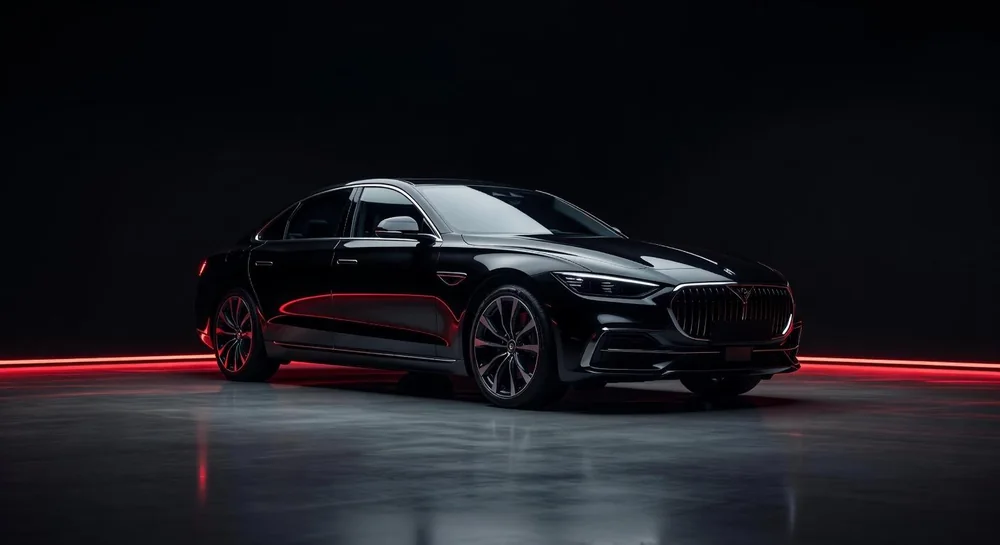
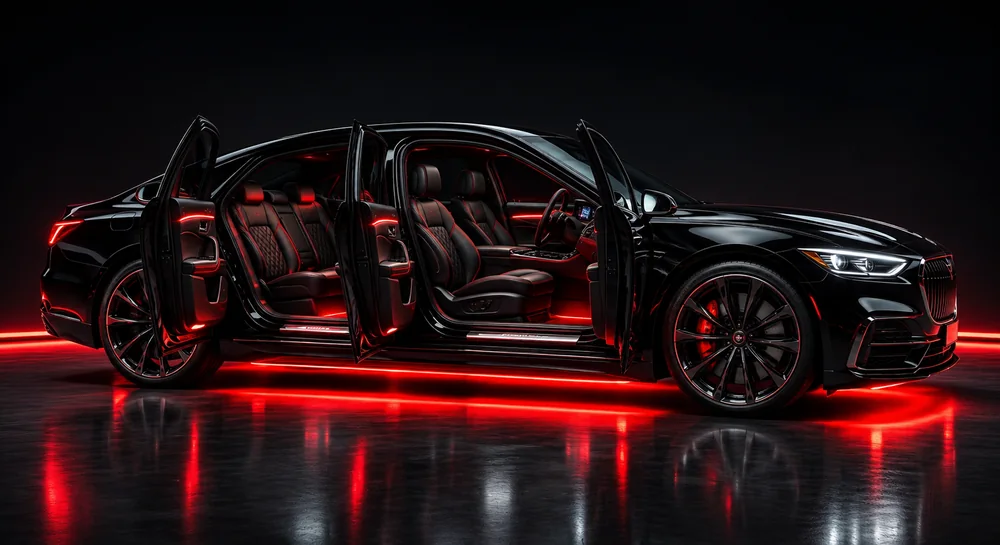
Open-door sedan hero, Google reviews section and top-bar Google button
- Hero: swap to the open-door sedan (WebP 640-1698w), four-sided edge fade so no image edges show
- Reviews: real Google testimonials as styled cards next to the award plaque; 4.8 / 71 Google reviews
  from the owner's Business Profile; links to the Google page
- Header: Google rating pill (star + 4.8) opening the Google page in a new tab
- Fix: clip the testimonials glow so it no longer widens the page on phones; tighter phone header

Claude-Session: https://claude.ai/code/session_01GMi2wfcRsANqYTVK4nMXbo

diff --git a/src/styles.css b/src/styles.css
@@ -40,6 +40,11 @@ a{color:var(--ink)}
 .nav a{text-decoration:none;color:var(--ink);opacity:.86;padding:6px 0;border-bottom:1px solid transparent}
 .nav a:hover{opacity:1;border-color:var(--red-hi)}
 .head-actions{display:flex;align-items:center;gap:10px}
+.g-pill{display:inline-flex;align-items:center;gap:7px;height:38px;padding:0 15px;border-radius:99px;background:#f4f1ea;color:#111;text-decoration:none;font:600 13px 'Inter Tight',sans-serif;letter-spacing:.02em;white-space:nowrap;transition:background .2s,transform .15s}
+.g-pill:hover{background:#fff;transform:translateY(-1px)}
+.g-pill:focus-visible{outline:2px solid #fff;outline-offset:3px;box-shadow:0 0 0 5px rgba(200,16,46,.9)}
+.g-star{color:#d99a1c;font-size:15px;line-height:1}
+.g-word{font-weight:500;color:#444}
 .menu-btn{display:none;align-items:center;gap:9px;height:38px;padding:0 14px;border:1px solid rgba(244,241,234,.5);border-radius:99px;background:none;color:var(--ink);font:500 13px 'Inter Tight',sans-serif;letter-spacing:.05em;cursor:pointer}
 .menu-btn b{display:block;width:13px;height:7px;border-top:1px solid currentColor;border-bottom:1px solid currentColor}
 .legal .head-actions{margin-left:auto}
@@ -52,7 +57,7 @@ h3{font-weight:600;letter-spacing:-.01em}
 .fine{font-size:13.5px;color:var(--mid);margin-top:10px}
 .fine a,.fine .linklike{color:var(--ink)}
 
-.section{padding:clamp(72px,10vw,130px) 0;scroll-margin-top:var(--head)}
+.section{padding:clamp(72px,10vw,130px) 0;scroll-margin-top:var(--head);overflow-x:clip}
 .section.alt{background:var(--bg2);border-top:1px solid var(--line);border-bottom:1px solid var(--line)}
 [id]{scroll-margin-top:calc(var(--head) + 8px)}
 
@@ -86,12 +91,12 @@ h3{font-weight:600;letter-spacing:-.01em}
 #name{position:absolute;z-index:5;left:0;top:0;padding:6px 11px;background:var(--ink);color:var(--bg);border-radius:99px;font-size:11.5px;font-weight:600;letter-spacing:.04em;pointer-events:none;opacity:0;transition:opacity .16s;white-space:nowrap}
 
 /* hero vehicle: decorative, blended into the page, faded by hero scroll progress (see hero.js) */
-.hero-car{position:absolute;z-index:0;left:0;right:0;margin-inline:auto;bottom:clamp(44px,7vh,90px);width:min(94vw,1360px,calc((100svh - var(--head) - 40px) * 1.8333));pointer-events:none;user-select:none;-webkit-user-select:none;mix-blend-mode:lighten;will-change:opacity,transform;contain:layout paint;
-  -webkit-mask-image:radial-gradient(ellipse 64% 64% at 50% 53%,#000 55%,transparent 100%);mask-image:radial-gradient(ellipse 64% 64% at 50% 53%,#000 55%,transparent 100%)}
-.hero-car img{display:block;width:100%;height:auto;aspect-ratio:1408/768}
+.hero-car{position:absolute;z-index:0;left:0;right:0;margin-inline:auto;bottom:clamp(44px,7vh,90px);width:min(80vw,1160px,calc((100svh - var(--head) - 40px) * 1.8333));pointer-events:none;user-select:none;-webkit-user-select:none;mix-blend-mode:lighten;will-change:opacity,transform;contain:layout paint;
+  -webkit-mask-image:linear-gradient(90deg,transparent 0,#000 8%,#000 92%,transparent 100%),linear-gradient(180deg,transparent 0,#000 14%,#000 68%,transparent 100%);-webkit-mask-composite:source-in;mask-image:linear-gradient(90deg,transparent 0,#000 8%,#000 92%,transparent 100%),linear-gradient(180deg,transparent 0,#000 14%,#000 68%,transparent 100%);mask-composite:intersect}
+.hero-car img{display:block;width:100%;height:auto;aspect-ratio:1698/926}
 .static-car{margin:34px 0 0;overflow:hidden;pointer-events:none;mix-blend-mode:lighten;
-  -webkit-mask-image:radial-gradient(ellipse 66% 66% at 50% 53%,#000 55%,transparent 100%);mask-image:radial-gradient(ellipse 66% 66% at 50% 53%,#000 55%,transparent 100%)}
-.static-car img{display:block;width:min(1180px,100%);height:auto;aspect-ratio:1408/768;margin:0 auto}
+  -webkit-mask-image:linear-gradient(90deg,transparent 0,#000 8%,#000 92%,transparent 100%),linear-gradient(180deg,transparent 0,#000 14%,#000 68%,transparent 100%);-webkit-mask-composite:source-in;mask-image:linear-gradient(90deg,transparent 0,#000 8%,#000 92%,transparent 100%),linear-gradient(180deg,transparent 0,#000 14%,#000 68%,transparent 100%);mask-composite:intersect}
+.static-car img{display:block;width:min(1000px,100%);height:auto;aspect-ratio:1698/926;margin:0 auto}
 
 /* static hero */
 .hero-static{display:none;padding:calc(var(--head) + 56px) 0 70px;border-bottom:1px solid var(--line)}
@@ -160,10 +165,30 @@ html.static-hero body.legal .hero-static{display:none}
 .facts div{border-top:1px solid var(--line);padding-top:10px}
 .facts dt{font:500 11px 'IBM Plex Mono',monospace;letter-spacing:.1em;text-transform:uppercase;color:var(--mid)}
 .facts dd{font-size:17px}
-.review-list{display:grid;grid-template-columns:repeat(auto-fit,minmax(260px,1fr));gap:16px;margin:16px 0 24px}
-.review{background:var(--card);border:1px solid var(--line);border-radius:12px;padding:20px}
-.review p{font-size:16px;margin-bottom:10px}
-.review cite{font:500 12px 'IBM Plex Mono',monospace;color:var(--mid);font-style:normal;letter-spacing:.06em}
+.rating-badge{display:flex;align-items:center;gap:16px;flex-wrap:wrap;margin-top:22px;padding:16px 20px;border:1px solid rgba(255,90,104,.4);border-radius:14px;background:linear-gradient(135deg,rgba(200,16,46,.22),rgba(200,16,46,.04))}
+.rating-num{font-size:60px;font-weight:500;letter-spacing:-.05em;line-height:1}
+.rating-body{display:grid;gap:2px;margin-right:auto}
+.stars{color:#f0b44c;letter-spacing:.14em;font-size:18px;line-height:1.2}
+.rating-meta{font-size:15px;color:#d8d5ce}
+.rating-meta strong{color:var(--ink);font-weight:600}
+.rev-stage{position:relative;margin-top:64px}
+.rev-stage:before{content:"";position:absolute;left:50%;top:-40px;width:min(1100px,130%);height:420px;transform:translateX(-50%);background:radial-gradient(ellipse 60% 55% at 50% 0%,rgba(200,16,46,.20),transparent 70%);pointer-events:none;z-index:0}
+.rev-stage>*{position:relative;z-index:1}
+.tgrid{display:grid;grid-template-columns:repeat(3,1fr);gap:16px}
+.tcard{position:relative;margin:0;padding:28px 24px 22px;display:flex;flex-direction:column;gap:18px;justify-content:space-between;background:linear-gradient(180deg,#181518,#111112);border:1px solid var(--line);border-top:2px solid var(--red);border-radius:14px;overflow:hidden;transition:transform .25s,border-color .25s,box-shadow .25s}
+.tcard:before{content:"\201C";position:absolute;right:16px;top:-6px;font:400 110px/1 Georgia,'Times New Roman',serif;color:rgba(255,90,104,.2);pointer-events:none}
+.tcard:hover{transform:translateY(-3px);border-color:rgba(255,90,104,.5);box-shadow:0 14px 40px rgba(200,16,46,.18)}
+.tcard blockquote p{font-size:17px;line-height:1.5;color:var(--ink);position:relative}
+.tcard.feature{grid-column:span 2;padding:36px 34px 28px;background:linear-gradient(135deg,rgba(200,16,46,.24),#131214 55%)}
+.tcard.feature blockquote p{font-size:clamp(20px,2.1vw,27px);line-height:1.35;letter-spacing:-.015em}
+.tcard.wide{grid-column:span 2}
+.tcard figcaption{display:flex;align-items:center;flex-wrap:wrap;gap:4px 12px;border-top:1px solid var(--line);padding-top:14px;font-size:14px}
+.tcard figcaption .stars{font-size:14px}
+.tcard .who{font-weight:600}
+.tcard .src{font:500 11px 'IBM Plex Mono',monospace;letter-spacing:.08em;text-transform:uppercase;color:var(--mid);margin-left:auto}
+.tcard.cta{align-items:flex-start;justify-content:center;gap:16px;background:linear-gradient(135deg,rgba(200,16,46,.3),rgba(200,16,46,.08));border-color:rgba(255,90,104,.45)}
+.tcard.cta:before{content:none}
+.tcard.cta p{font-size:18px;font-weight:500;letter-spacing:-.01em}
 
 /* ===== booking ===== */
 .book-grid{display:grid;grid-template-columns:1fr 1.15fr;gap:clamp(32px,6vw,80px);align-items:start}
@@ -240,6 +265,8 @@ input.chip:focus-visible+label.chip{outline:2px solid #fff;outline-offset:2px}
   .price-grid{grid-template-columns:1fr}
   .promo-grid{grid-template-columns:repeat(2,1fr)}
   .award,.book-grid{grid-template-columns:1fr}
+  .tgrid{grid-template-columns:1fr 1fr}
+  .tcard.feature,.tcard.wide{grid-column:span 2}
   .nav{display:none;position:fixed;top:var(--head);left:0;right:0;flex-direction:column;gap:0;margin:0;background:var(--bg);border-bottom:1px solid var(--line);padding:8px 20px 16px}
   .nav.open{display:flex}
   .nav a{padding:14px 0;font-size:17px;border-bottom:1px solid var(--line)}
@@ -249,8 +276,8 @@ input.chip:focus-visible+label.chip{outline:2px solid #fff;outline-offset:2px}
   .gridcta{display:none}
 }
 @media (max-width:760px){
-  .hero-car{left:50%;right:auto;margin:0 0 0 -75vw;width:150vw;bottom:62px}
-  .static-car img{width:150%;max-width:none;margin-left:-25%}
+  .hero-car{left:50%;right:auto;margin:0 0 0 -52vw;width:104vw;bottom:calc(58px + 11svh)}
+  .static-car img{width:104%;max-width:none;margin-left:-2%}
   body{font-size:16px}
   .brand{font-size:15px;gap:8px}
   .brand-logo{height:36px}
@@ -261,11 +288,30 @@ input.chip:focus-visible+label.chip{outline:2px solid #fff;outline-offset:2px}
   .bot .mid{display:none}
   .bot p{max-width:15em;font-size:11px}
   #cross{left:18px;right:18px}
-  .two,.promo-grid,.gal,.foot-grid{grid-template-columns:1fr}
+  .two,.promo-grid,.gal,.foot-grid,.tgrid{grid-template-columns:1fr}
+  .tcard.feature,.tcard.wide{grid-column:auto}
+  .tcard.feature{padding:28px 22px 22px}
+  .rating-num{font-size:48px}
   .static-grid{grid-template-columns:repeat(2,1fr)}
   .price{font-size:40px}
   .menu-label{display:none}
   .site-header{gap:10px}
+}
+@media (max-width:520px){
+  .g-word{display:none}
+  .g-pill{padding:0 11px;gap:5px}
+  .brand-name{max-width:5.4em;font-size:12.5px}
+  .head-actions{gap:6px}
+  .head-actions .btn-sm{padding:0 12px;font-size:12.5px}
+  .menu-btn{width:38px;padding:0;justify-content:center;gap:0}
+  .g-pill{padding:0 10px;font-size:12.5px}
+}
+@media (max-width:360px){
+  .brand-logo{height:28px}
+  .g-pill{padding:0 9px}
+  .btn-sm{padding:0 10px}
+  .menu-btn{padding:0 11px}
+  .site-header{gap:6px;padding:0 10px}
 }
 @media (max-width:420px){
   .btn-sm{padding:0 12px}
@@ -285,5 +331,6 @@ input.chip:focus-visible+label.chip{outline:2px solid #fff;outline-offset:2px}
 }
 @media (prefers-reduced-motion:reduce){
   html{scroll-behavior:auto}
+  .tcard:hover{transform:none}
   *,*:before,*:after{animation:none!important;transition:none!important}
 }

diff --git a/index.html b/index.html
@@ -32,11 +32,14 @@
     <a href="#services">Services &amp; prices</a>
     <a href="#gallery">Gallery</a>
     <a href="#about">About</a>
-    <a href="#reviews">Recognition</a>
+    <a href="#reviews">Reviews</a>
     <a href="#area">Service area</a>
     <a href="#faq">FAQ</a>
   </nav>
   <div class="head-actions">
+    <a class="g-pill" href="https://maps.app.goo.gl/F6YkiiZANLB92ABx8" target="_blank" rel="noopener noreferrer" data-google-link aria-label="Rated 4.8 out of 5 on Google from 71 reviews. Opens our Google page in a new tab.">
+      <span class="g-star" aria-hidden="true">★</span><span class="g-num js-rating" aria-hidden="true">4.8</span><span class="g-word" aria-hidden="true">Google</span>
+    </a>
     <a class="btn btn-red btn-sm" href="#book">Book now</a>
     <button class="menu-btn" type="button" aria-label="Menu" aria-expanded="false" aria-controls="nav"><span class="menu-label">Menu</span><b aria-hidden="true"></b></button>
   </div>
@@ -46,7 +49,7 @@
 <div id="track" class="hero-track">
   <section class="stage" id="stage" aria-label="B's Supa Clean Cars introduction">
     <div class="hero-car" id="hero-car" aria-hidden="true">
-      <img src="./img/hero-car-1000.webp" srcset="./img/hero-car-640.webp 640w, ./img/hero-car-1000.webp 1000w, ./img/hero-car-1408.webp 1408w" sizes="(max-width:760px) 150vw, min(94vw, 1360px)" width="1408" height="768" alt="" decoding="async" fetchpriority="high" draggable="false">
+      <img src="./img/hero-car-1000.webp" srcset="./img/hero-car-640.webp 640w, ./img/hero-car-1000.webp 1000w, ./img/hero-car-1408.webp 1408w, ./img/hero-car-1698.webp 1698w" sizes="(max-width:760px) 104vw, min(80vw, 1160px)" width="1698" height="926" alt="" decoding="async" fetchpriority="high" draggable="false">
     </div>
     <h1 aria-label="B's Supa Clean Cars LLC. Supa clean. 5 star satisfaction every time.">
       <div class="hl" id="l1" aria-hidden="true"><span>SUPA CLEAN.</span></div>
@@ -92,7 +95,7 @@
       <a class="btn btn-ghost" href="#services">See prices</a>
     </div>
     <div class="static-car" aria-hidden="true">
-      <img src="./img/hero-car-1000.webp" srcset="./img/hero-car-640.webp 640w, ./img/hero-car-1000.webp 1000w, ./img/hero-car-1408.webp 1408w" sizes="(max-width:760px) 150vw, min(94vw, 1180px)" width="1408" height="768" alt="" decoding="async" draggable="false">
+      <img src="./img/hero-car-1000.webp" srcset="./img/hero-car-640.webp 640w, ./img/hero-car-1000.webp 1000w, ./img/hero-car-1408.webp 1408w, ./img/hero-car-1698.webp 1698w" sizes="(max-width:760px) 104vw, min(90vw, 1000px)" width="1698" height="926" alt="" decoding="async" draggable="false">
     </div>
     <div class="static-grid" role="list">
       <figure role="listitem"><img src="./img/merc-before-480.webp" srcset="./img/merc-before-480.webp 480w, ./img/merc-before-800.webp 800w" sizes="(min-width:900px) 30vw, 50vw" width="1252" height="939" alt="Front interior of a Mercedes-Benz before detailing, with dirty, stained beige carpet and a dusty center console." loading="eager" fetchpriority="high"><figcaption>Before</figcaption></figure>
@@ -284,8 +287,8 @@
 <!-- ===================== RECOGNITION / REVIEWS ===================== -->
 <section class="section" id="reviews" aria-labelledby="reviews-h">
   <div class="wrap">
-    <p class="eyebrow">Recognition</p>
-    <h2 id="reviews-h">Local recognition.</h2>
+    <p class="eyebrow">Recognition &amp; reviews</p>
+    <h2 id="reviews-h">Recognized locally. Recommended by customers.</h2>
     <div class="award">
       <a class="plaque" href="./img/award-plaque-1200.webp" target="_blank" rel="noopener">
         <img src="./img/award-plaque-480.webp" srcset="./img/award-plaque-480.webp 480w, ./img/award-plaque-800.webp 800w, ./img/award-plaque-1200.webp 1200w" sizes="(min-width:900px) 45vw, 92vw" width="2048" height="1652" loading="lazy" alt="Gold plaque reading Best of Michigan Regional Winner 2026, 1st place, B's Supa Clean Cars LLC, Car Washes and Detailing Services, owner Brian Battle.">
@@ -300,12 +303,49 @@
           <div><dt>Recipient</dt><dd>B's Supa Clean Cars LLC (owner: Brian Battle)</dd></div>
         </dl>
         <p class="fine">As engraved on our 2026 plaque.</p>
+        <div class="rating-badge">
+          <p class="rating-num" id="rating-num">4.8</p>
+          <div class="rating-body">
+            <p class="stars" role="img" aria-label="Rated 4.8 out of 5 stars on Google">★★★★★</p>
+            <p class="rating-meta"><strong id="review-count">71</strong> Google reviews</p>
+          </div>
+          <a class="btn btn-ghost btn-sm" id="google-link" href="https://maps.app.goo.gl/F6YkiiZANLB92ABx8" target="_blank" rel="noopener noreferrer">Read on Google<span class="sr-only"> (opens in a new tab)</span></a>
+        </div>
       </div>
     </div>
-    <div id="google-reviews" hidden>
+
+    <div class="rev-stage">
       <h3 class="group-h">What customers say</h3>
-      <div id="review-list" class="review-list"></div>
-      <p><a id="google-link" class="btn btn-ghost" href="#" target="_blank" rel="noopener noreferrer">Read all reviews on Google<span class="sr-only"> (opens in a new tab)</span></a></p>
+      <div class="tgrid">
+        <figure class="tcard feature">
+          <blockquote><p>Best service in Town you'll be loosing for not getting your detail work done here, want a clean car? I mean so clean your Micheal kors will turn in to Louis Vuitton real quick make the smart move and get your Detail Today!!</p></blockquote>
+          <figcaption><span class="stars" role="img" aria-label="5 out of 5 stars">★★★★★</span><span class="who">Kwame</span><span class="src">Google review</span></figcaption>
+        </figure>
+        <figure class="tcard">
+          <blockquote><p>One of the best details I've had on my vehicle.</p></blockquote>
+          <figcaption><span class="stars" role="img" aria-label="5 out of 5 stars">★★★★★</span><span class="who">Thomas G. · Local Guide</span><span class="src">Google review</span></figcaption>
+        </figure>
+        <figure class="tcard">
+          <blockquote><p>Very polite and clearly passionate about his work. Respectful and he arrived quick and took care of business.</p></blockquote>
+          <figcaption><span class="stars" role="img" aria-label="5 out of 5 stars">★★★★★</span><span class="who">Dylan E.</span><span class="src">Google review</span></figcaption>
+        </figure>
+        <figure class="tcard">
+          <blockquote><p>Had my car detailed car looks outstanding after smells great looks great! Thanks so much</p></blockquote>
+          <figcaption><span class="stars" role="img" aria-label="5 out of 5 stars">★★★★★</span><span class="who">President Donkey Kong</span><span class="src">Google review</span></figcaption>
+        </figure>
+        <figure class="tcard">
+          <blockquote><p>Most professionalism discrete, swift, and excellent customer service I will recommend to everyone is worth the patience time and money</p></blockquote>
+          <figcaption><span class="stars" role="img" aria-label="5 out of 5 stars">★★★★★</span><span class="who">leonrueim</span><span class="src">Google review</span></figcaption>
+        </figure>
+        <figure class="tcard wide">
+          <blockquote><p>I HIGHLY RECOMMEND BRIAN HE DID A AWSOME JOB ON MY TRUCK!! IF YOUR LOOKING FOR SOMEONE TO DETAIL YOUR VEHICLE, HE IS DEFINITELY THE MAN TO SEE</p></blockquote>
+          <figcaption><span class="stars" role="img" aria-label="5 out of 5 stars">★★★★★</span><span class="who">Sarina H.</span><span class="src">Google review</span></figcaption>
+        </figure>
+        <div class="tcard cta">
+          <p>Every review above is a real five-star Google review.</p>
+          <a class="btn btn-red" href="https://maps.app.goo.gl/F6YkiiZANLB92ABx8" target="_blank" rel="noopener noreferrer" data-google-link>Read all reviews on Google<span class="sr-only"> (opens in a new tab)</span></a>
+        </div>
+      </div>
     </div>
   </div>
 </section>

diff --git a/src/main.js b/src/main.js
@@ -37,21 +37,12 @@ const root = document.documentElement;
   if (config.email) show('#contact-email', 'mailto:' + config.email, config.email);
 })();
 
-/* ---------- Google reviews (only real, supplied excerpts) ---------- */
+/* ---------- Google profile link and rating (values come from site.config.json) ---------- */
 (() => {
-  const box = $('#google-reviews'); if (!box) return;
-  const list = $('#review-list'), link = $('#google-link');
-  const reviews = Array.isArray(config.reviews) ? config.reviews : [];
-  if (reviews.length) {
-    reviews.forEach(r => {
-      const d = document.createElement('blockquote'); d.className = 'review';
-      const p = document.createElement('p'); p.textContent = '“' + r.text + '”';
-      const c = document.createElement('cite'); c.textContent = '— ' + (r.author || 'Google reviewer');
-      d.append(p, c); list.append(d);
-    });
-  }
-  if (config.googleProfileUrl) link.href = config.googleProfileUrl; else link.hidden = true;
-  if (reviews.length || config.googleProfileUrl) box.hidden = false;
+  if (config.googleProfileUrl) $$('#google-link,[data-google-link]').forEach(a => { a.href = config.googleProfileUrl; });
+  if (config.rating && $('#rating-num')) $('#rating-num').textContent = Number(config.rating).toFixed(1);
+  if (config.rating) $$('.js-rating').forEach(n => { n.textContent = Number(config.rating).toFixed(1); });
+  if (config.reviewCount && $('#review-count')) $('#review-count').textContent = String(config.reviewCount);
 })();
 
 /* ---------- gallery lightbox ---------- */
